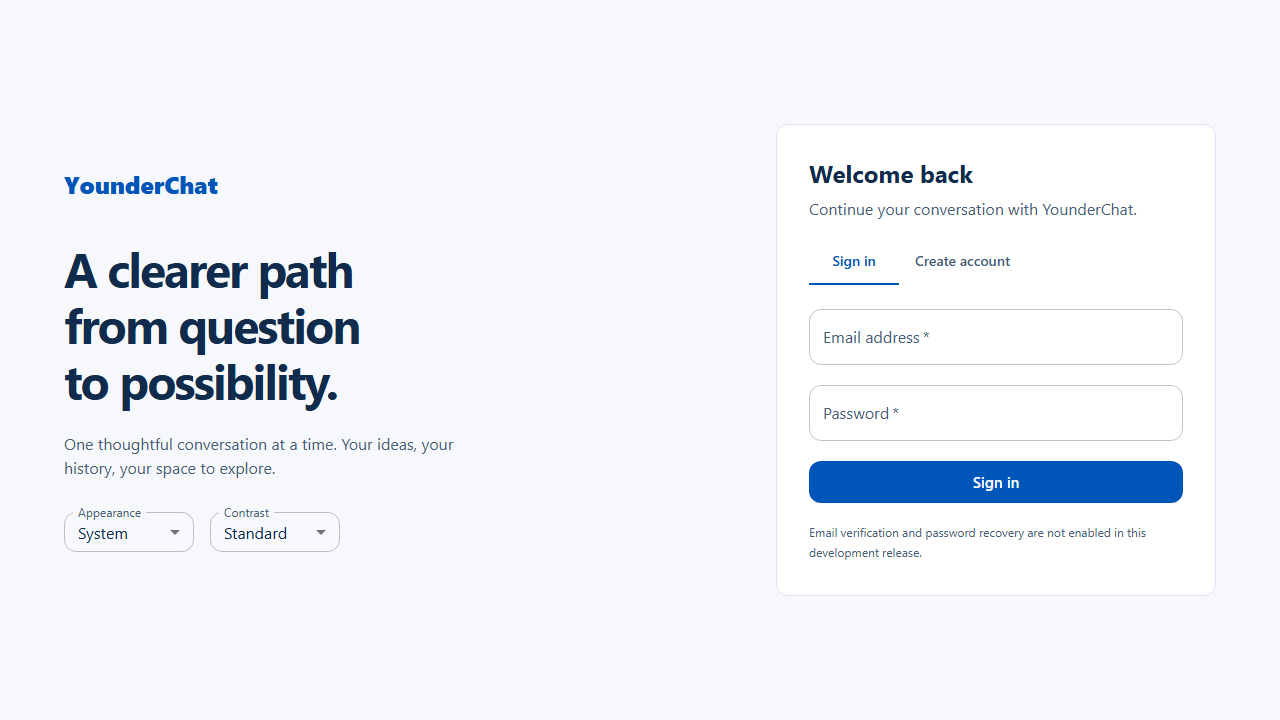
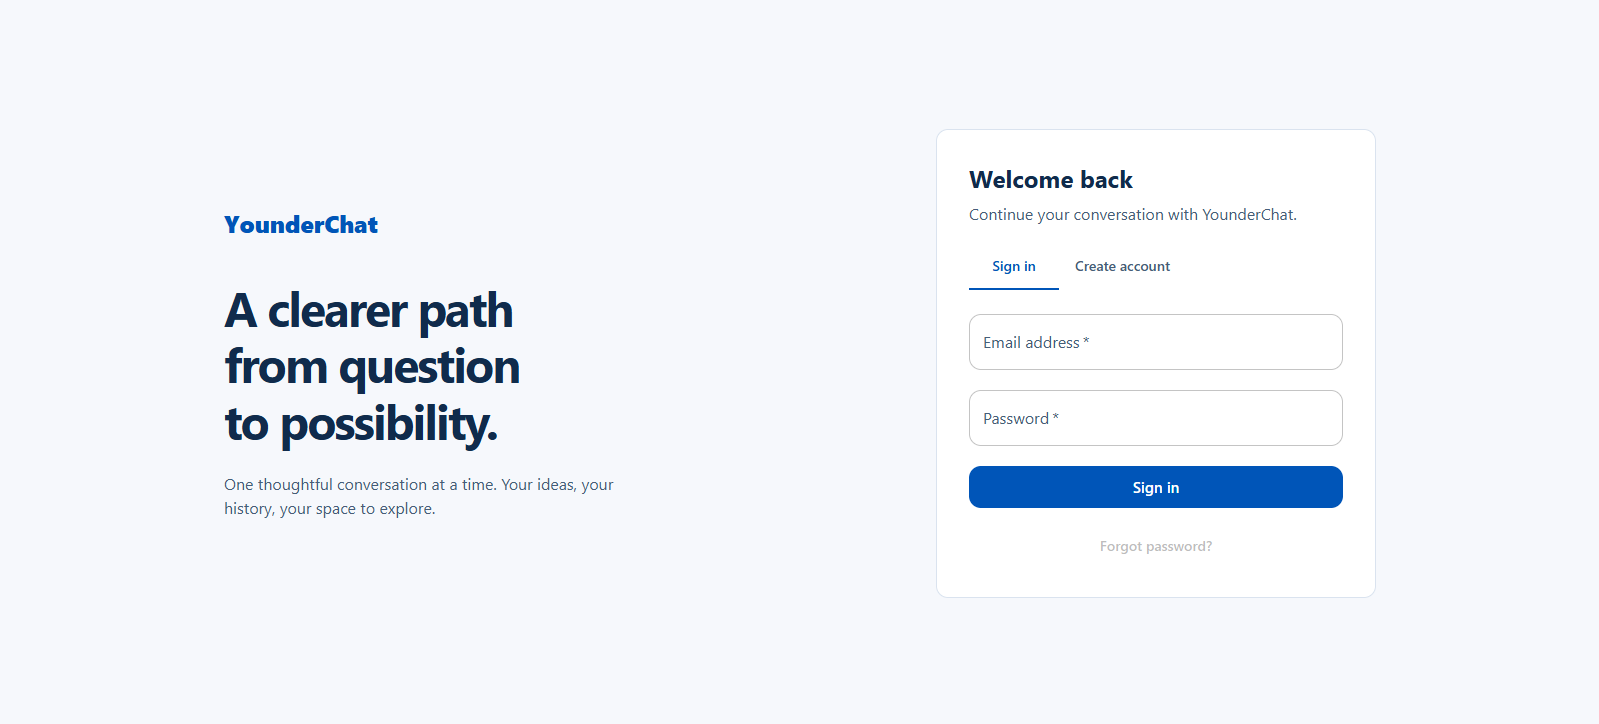
updated screnn shots

diff --git a/README.md b/README.md
@@ -124,7 +124,7 @@ Implemented in the current codebase:
 
 See [Implementation Plan](docs/implementation-plan.md) for current scope/status and [Backend README](backend/README.md) for backend and migration details.
 
-## Public interview demo
+## Public  demo
 
 The demo endpoint is https://aichat.sdigurukulam.in/. The hostname uses the developer's personal domain registered/managed through GoDaddy and was configured specifically for this interview demonstration; it is not a Blue Yonder-owned domain. Verify current deployment and real provider inference independently before describing them as live-tested.
 
